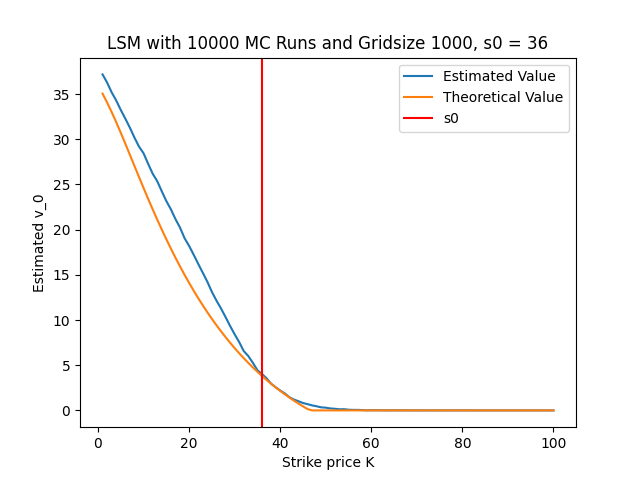
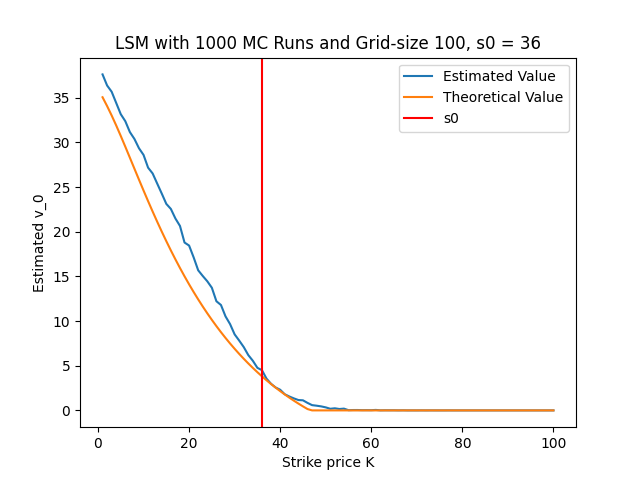
update picture vgl_N

diff --git a/algo.py b/algo.py
@@ -16,15 +16,18 @@ def Arithmetic_Asian_Call(x, K, n):
 
 
 def longstaff_schwartz(Market, degree, K, payoff, regression_type):
-    """Performs the Least squares Monte Carlo Estimation for American Put(!!) Options. Uses Black Scholes Model as underlying Market Model
+    """Performs the Least squares Monte Carlo Estimation for American Put(!!) Options. Uses Black Scholes Model
 
     Args:
+        TODO: New doc
         Market (Array): on axis 0: Sample paths, on axis 1 values at each time point for a given sample path
         degree (int): Maximum polynomial degree to be considered for regression
         K (float): strike price
         payoff (string): Payoff function of Option
+        regression_type (string): Basis function to be used
     Returns:
-        float: Estimated value of american Option
+        value_0 (float): Estimated value of american Option
+        var_mc (float): Monte Carlo estimate variance
     """
 
     # Extracting t, S from Market environment

diff --git a/vgl_N.py b/vgl_N.py
@@ -10,13 +10,13 @@ from sklearn.linear_model import LinearRegression
 # Parameters
 T = 1
 K = 36
-n = 100
+n = 1000
 degree = 4
 r = 0.06
 sigma = 0.2
 s0 = 36
 
-N = np.arange(start=100, stop=10001, step=100)  # Monte Carlo Runs
+N = np.arange(start=1000, stop=100001, step=1000)  # Monte Carlo Runs
 res_value = np.zeros(shape=(len(N),))  # Result Vector for estimated value
 var = np.zeros_like(N)  # result vector for variance of estimated value
 
